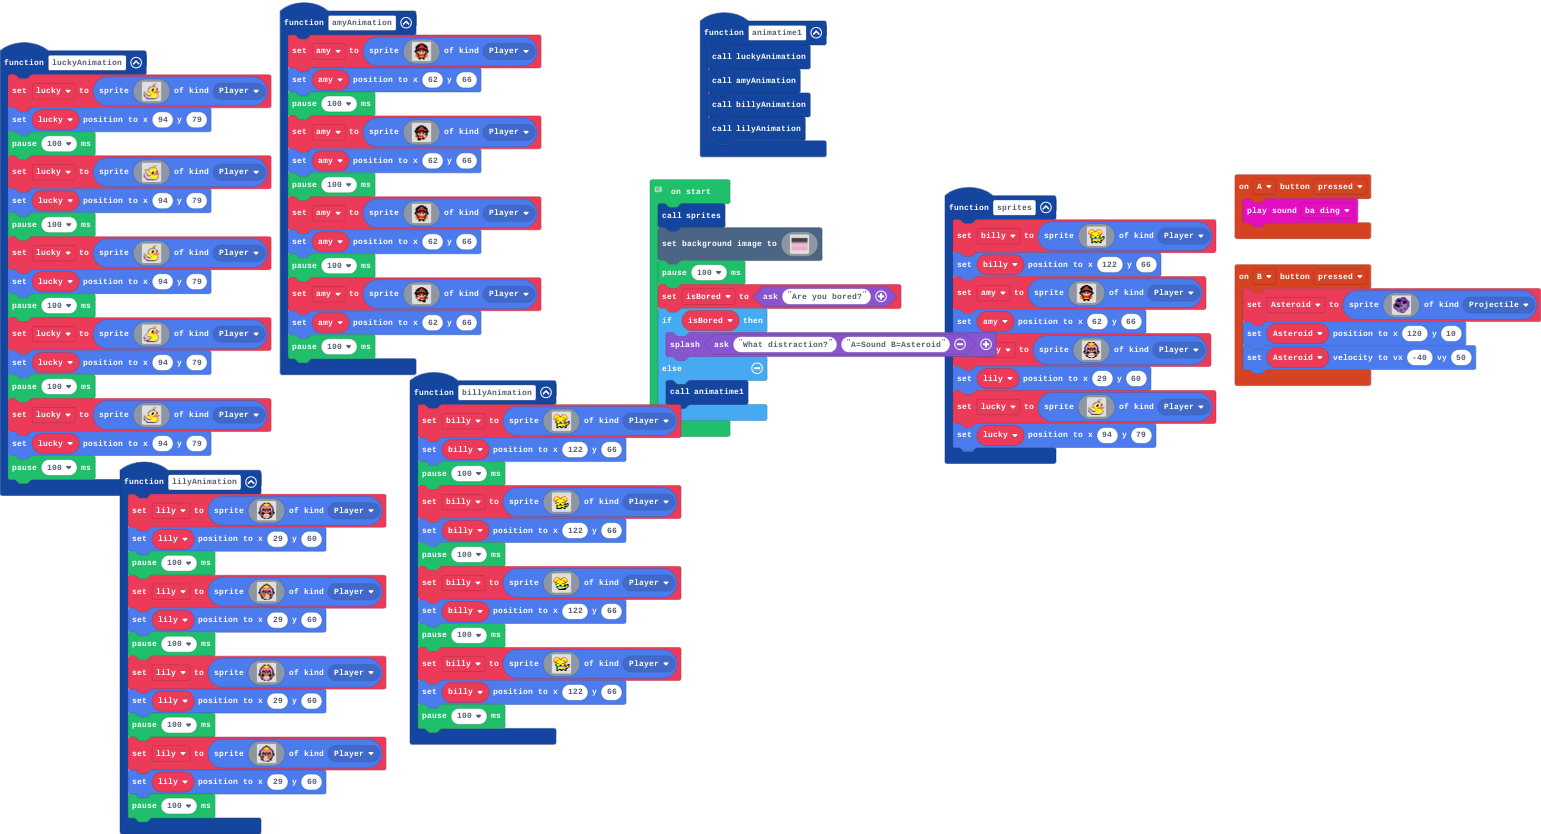
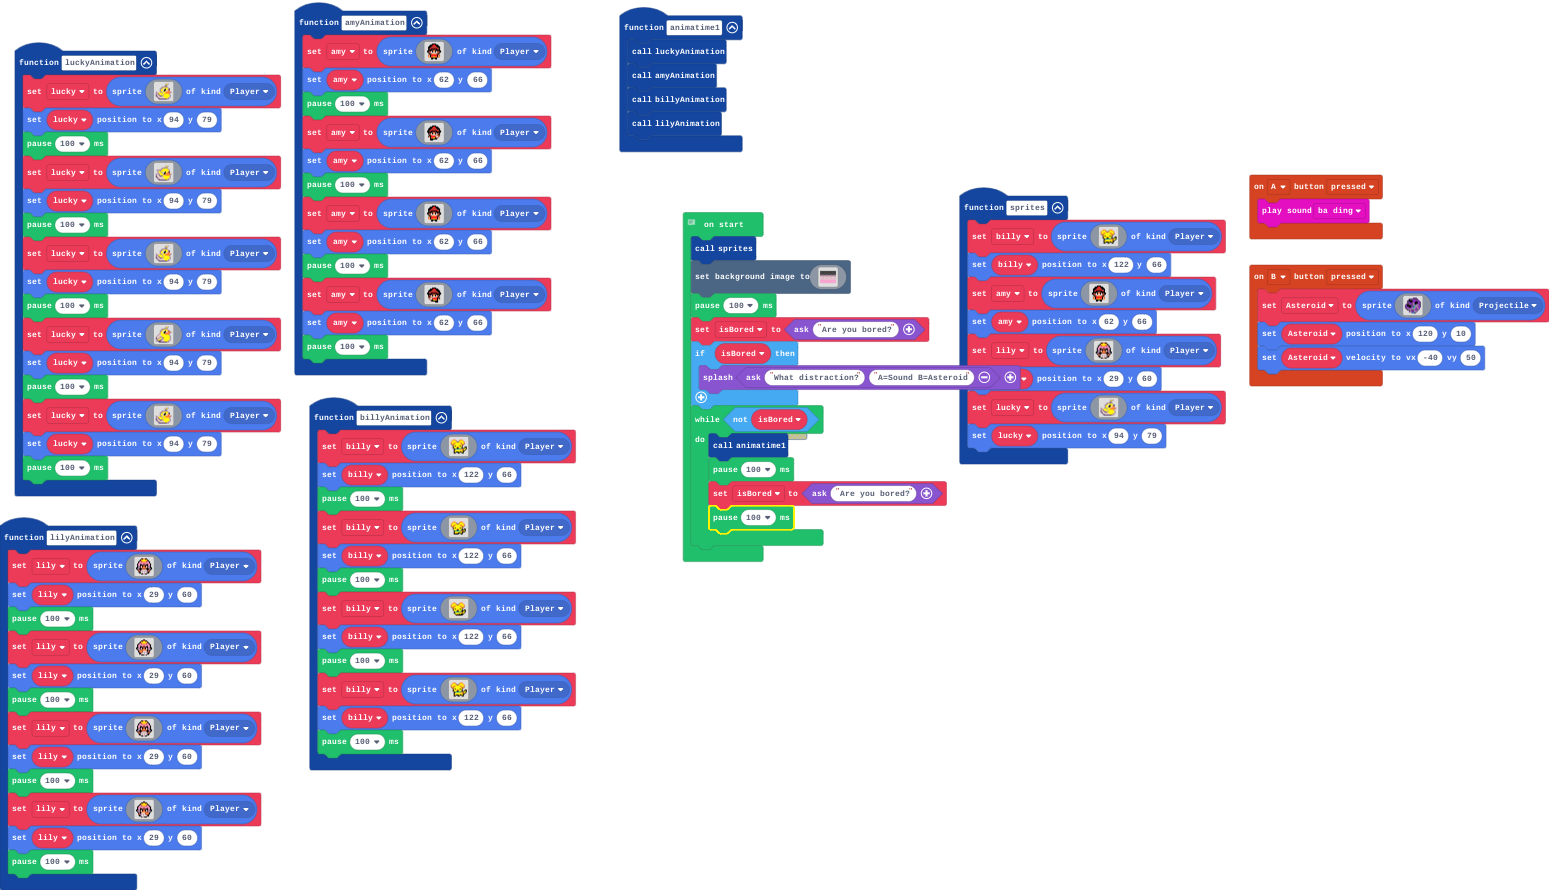
while loop

diff --git a/main.ts b/main.ts
@@ -578,6 +578,10 @@ pause(100)
 let isBored = game.ask("Are you bored?")
 if (isBored) {
     game.splash(game.ask("What distraction?", "A=Sound B=Asteroid"))
-} else {
+}
+while (!(isBored)) {
     animatime1()
+    pause(100)
+    isBored = game.ask("Are you bored?")
+    pause(100)
 }
